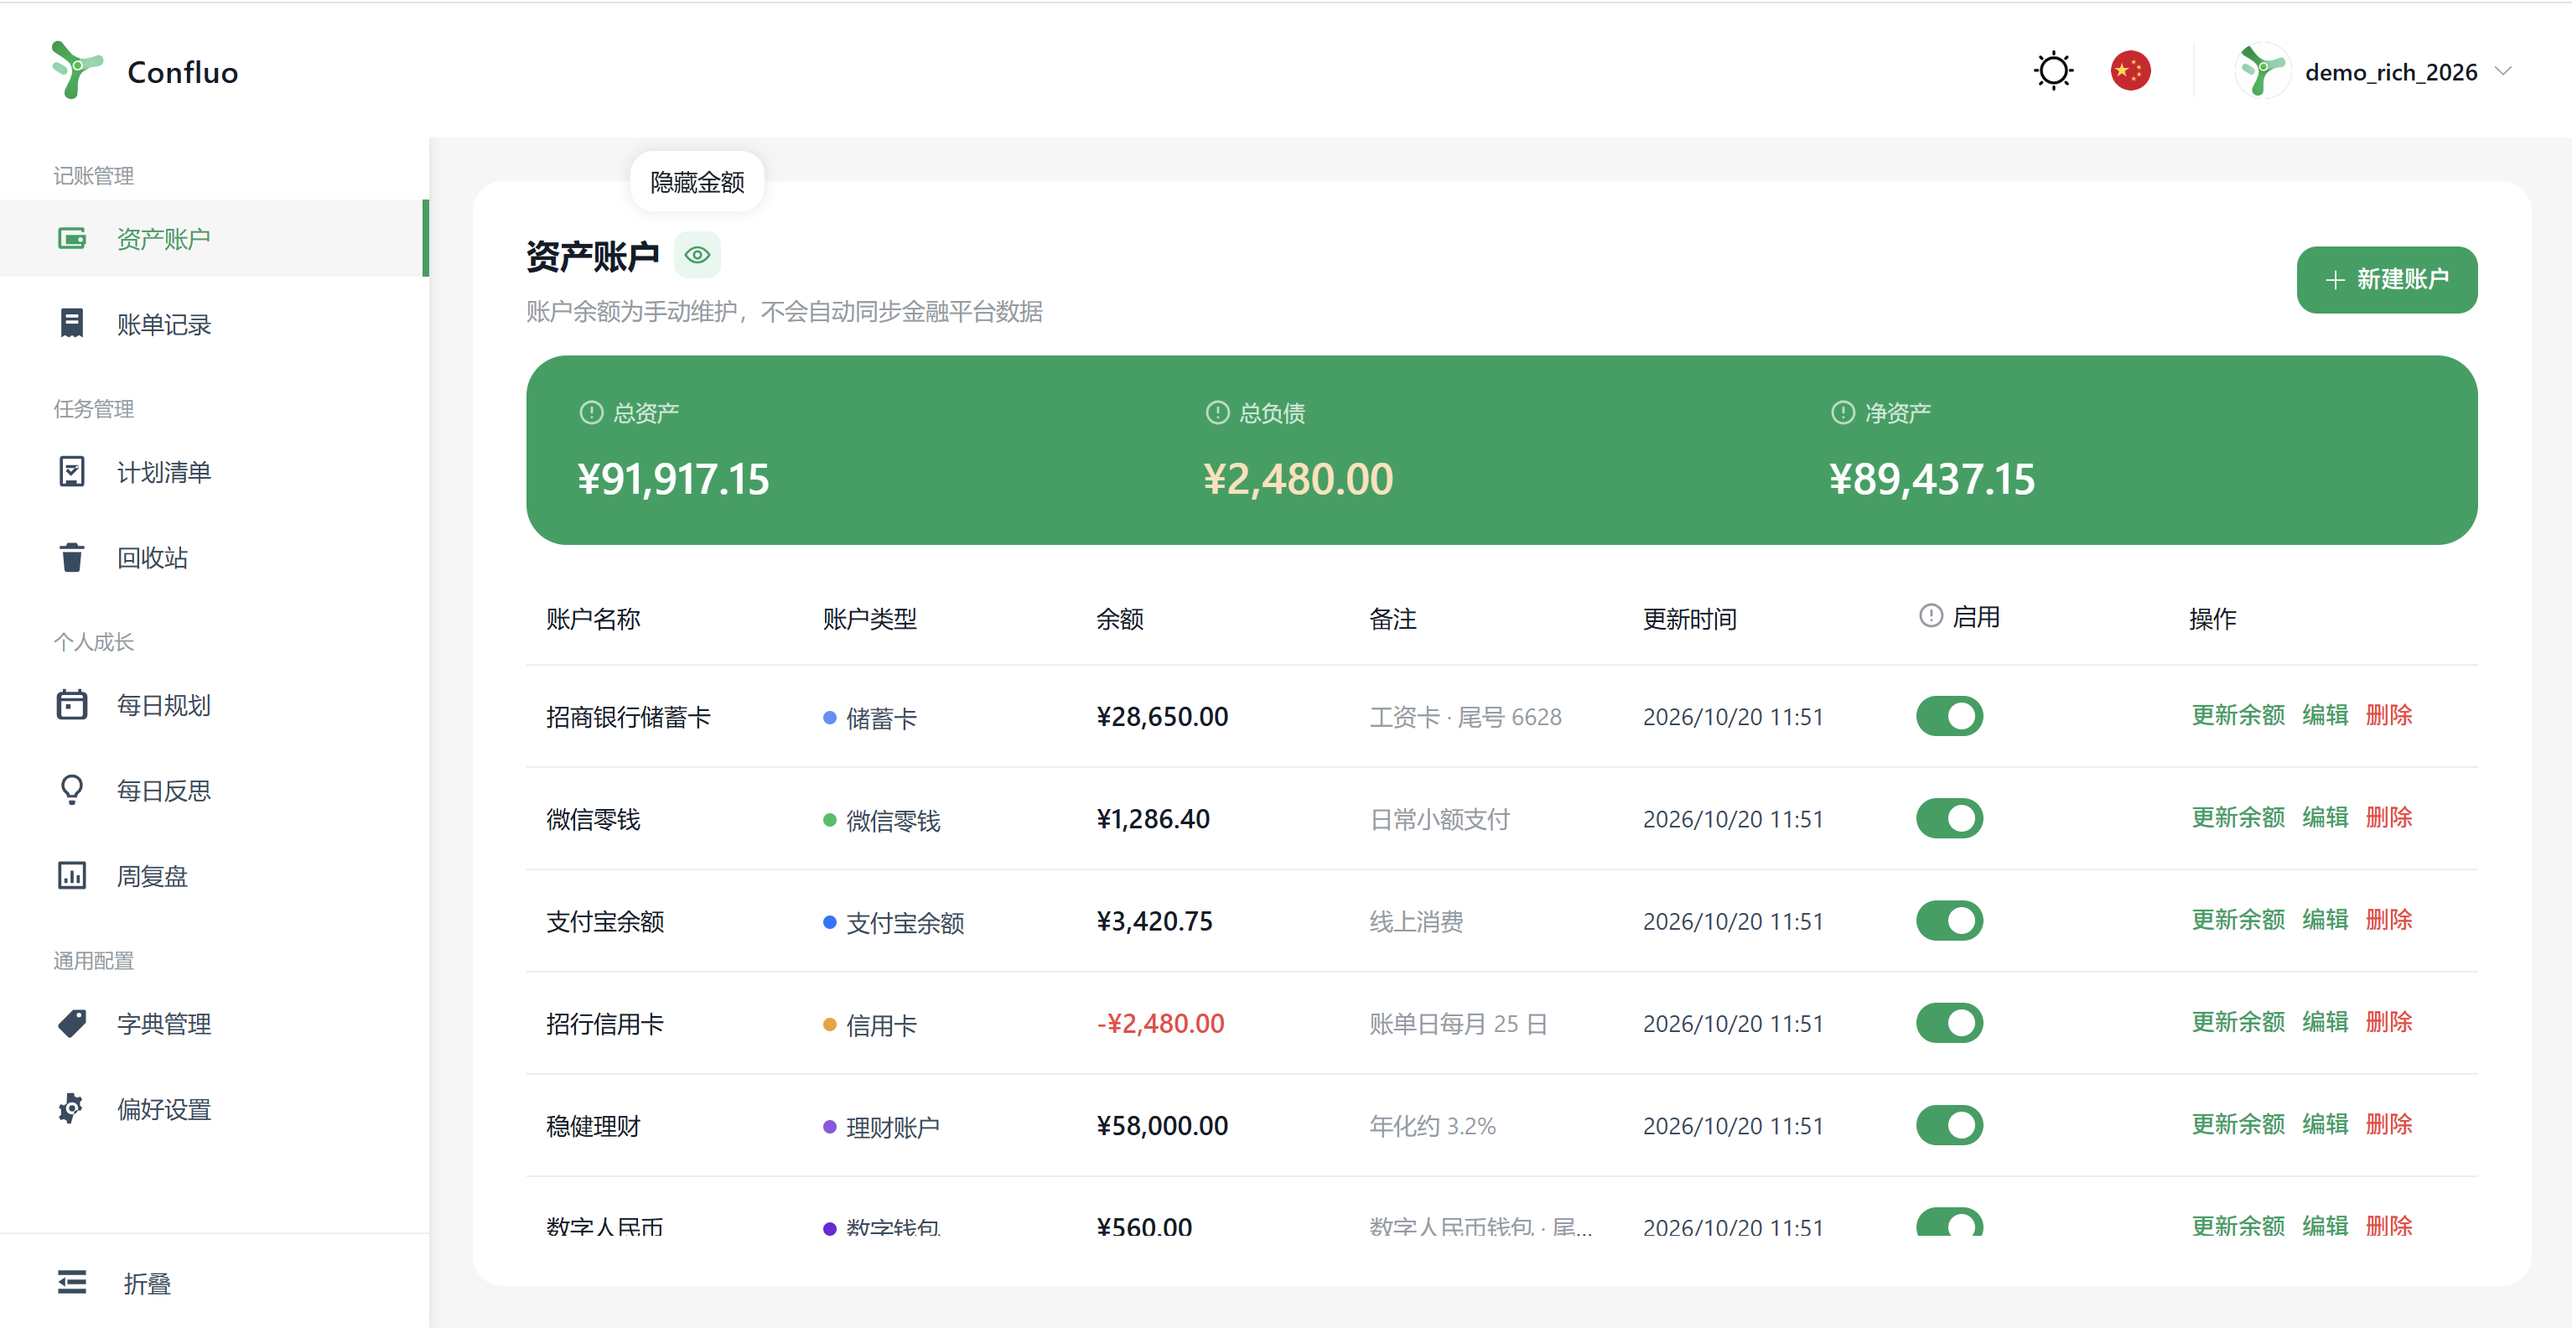
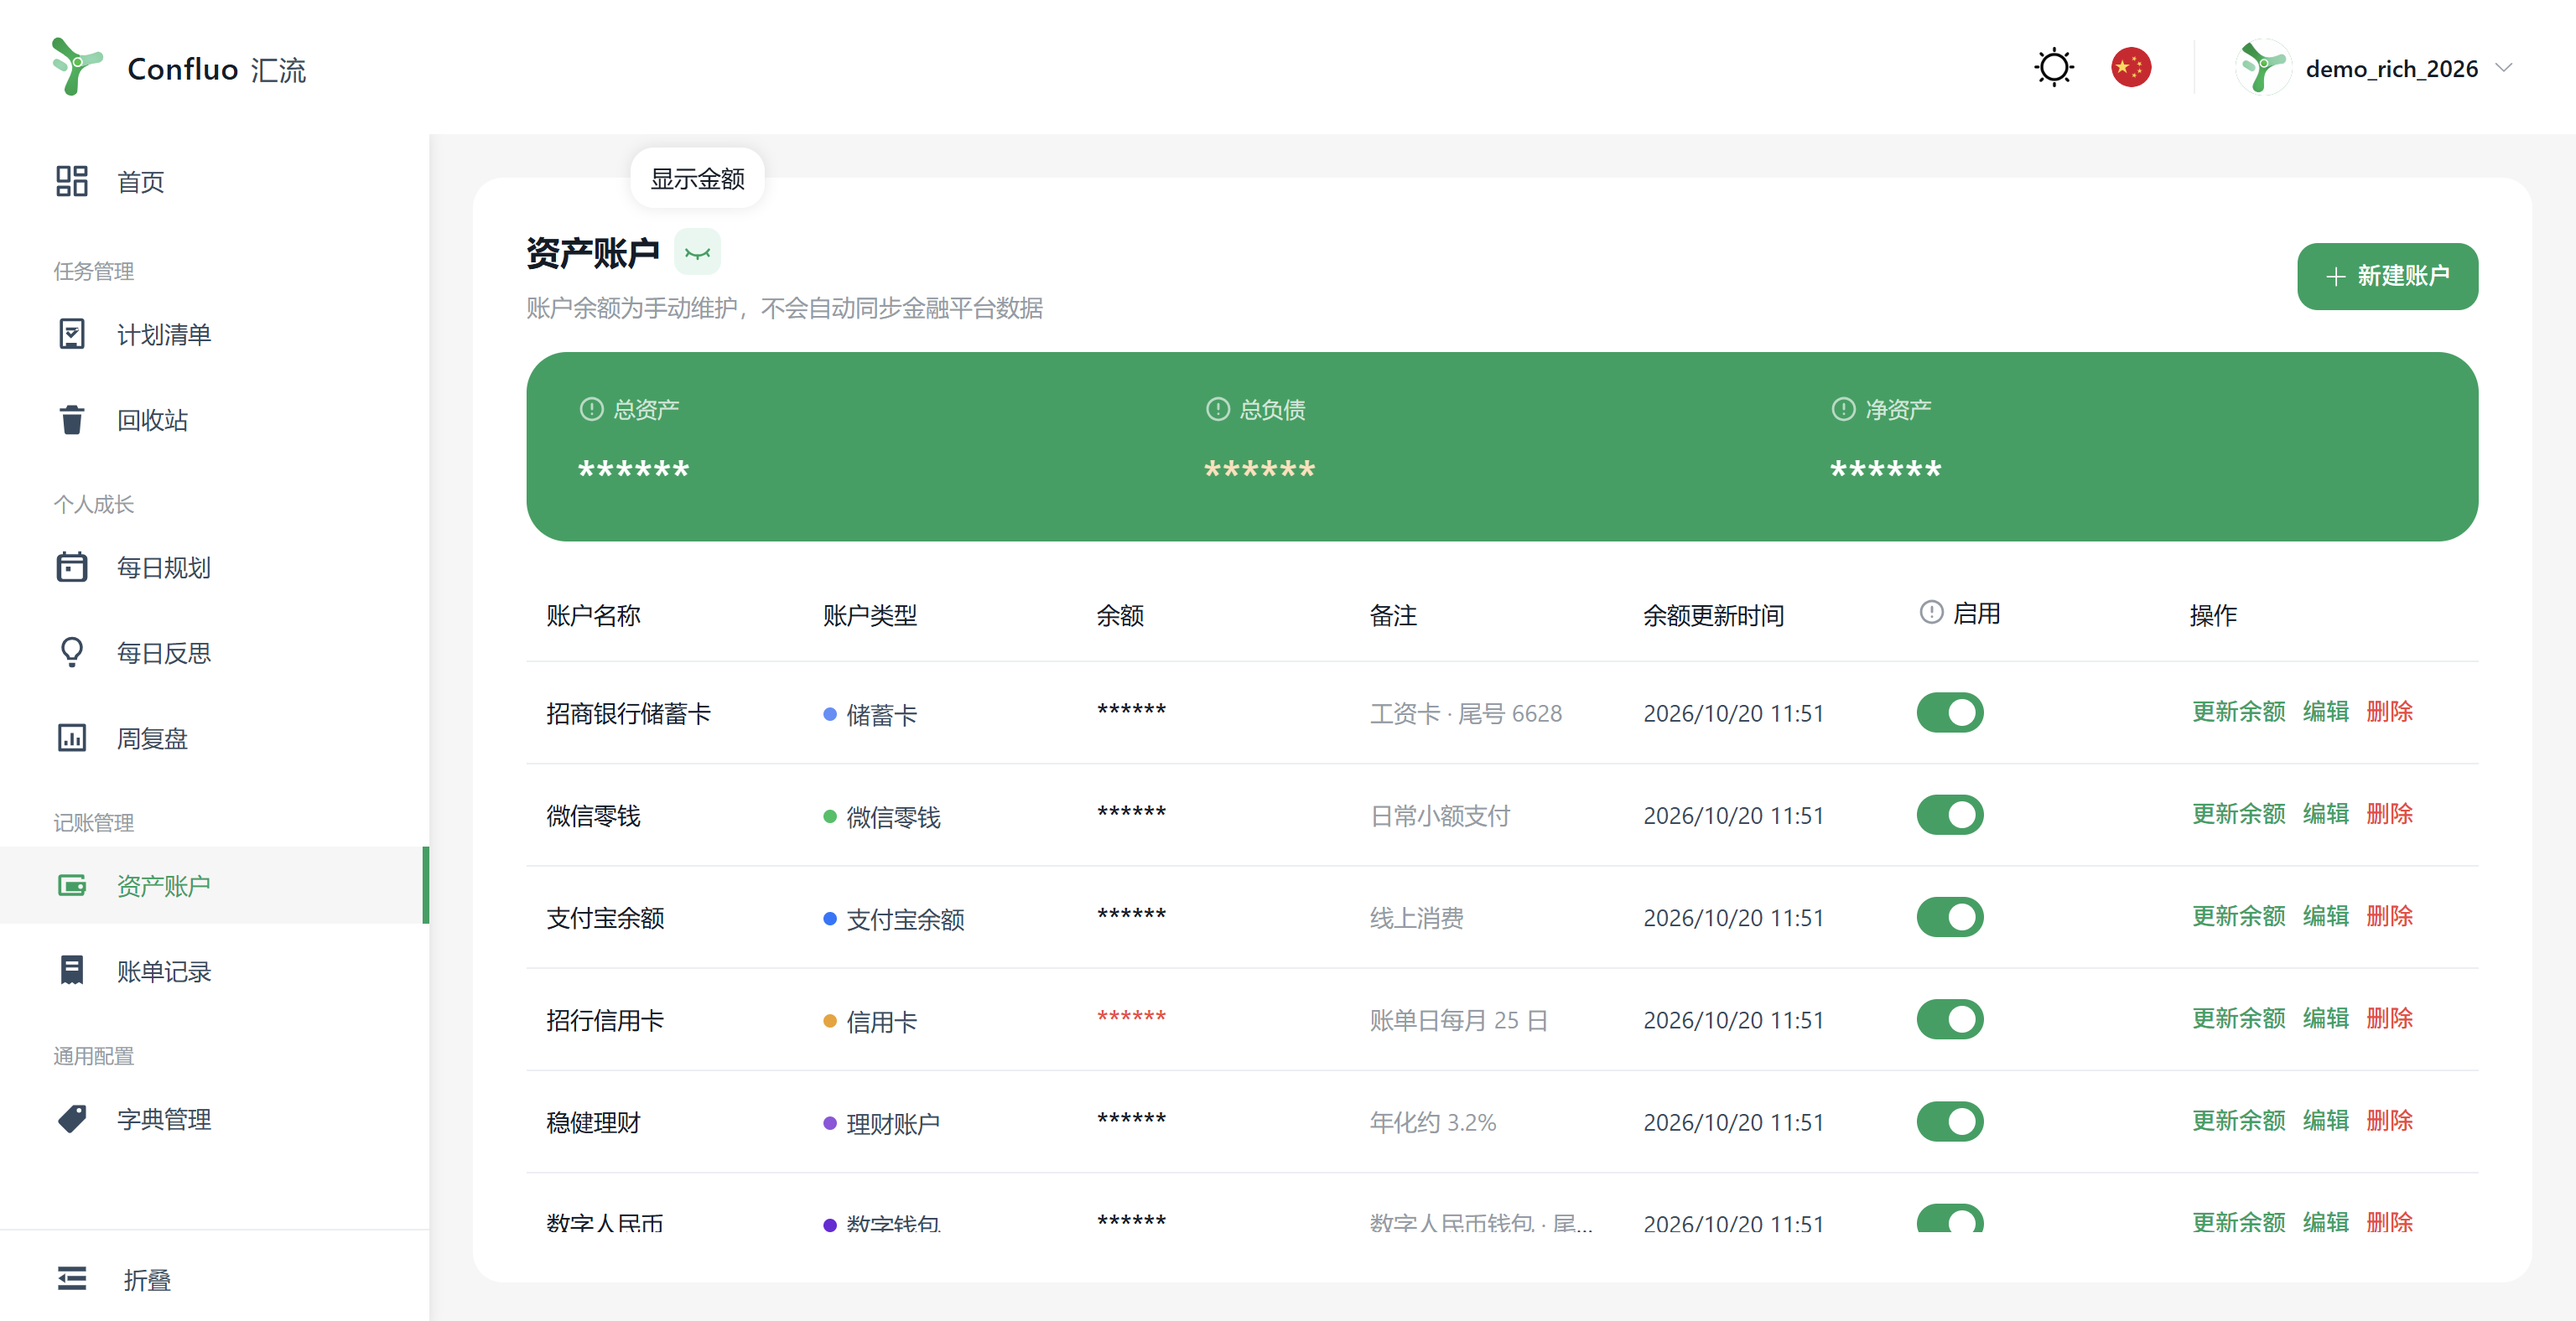
docs(marketing): refresh launch screenshots and articles

diff --git a/docs/marketing/xiaohongshu-note.md b/docs/marketing/xiaohongshu-note.md
@@ -1,118 +1,77 @@
-# 我把时间、复盘和钱，放回了同一条生活线
+# 我把计划、复盘和钱，放回了同一条生活线
 
-以前我的生活散在四个 App 里：
+以前，我的生活散在四个 App 里：
 
-清单里写着要做什么，日程里放着准备怎么做，日记里留着当时的感受，记账软件里躺着这个月的钱。
+清单记待办，日程排时间，日记写感受，另一个软件管钱。
 
-每一件都记了，但周末想认真回看时，还是得自己拼图。
+每一件都记了，周末还是得自己拼图。
 
-这是我最近一直在做的个人管理项目：**Confluo 汇流**。
+最近一直在做 **Confluo 汇流**，就是想把计划、行动、反思、复盘和账目，放回同一条能回看的生活线上。
 
-它不是另一个塞满功能的“万能效率软件”，而是想把计划、行动、反思、复盘和账目，放回同一条能回看的生活线上。
+官网已上线并完成 ICP 备案：**https://www.confluo.cn/**
 
-官网已经上线：**confluo.cn**
+![Confluo 首页](https://confluo-upload.oss-cn-shenzhen.aliyuncs.com/public/marketing/articles/confluo-launch-2026-11/01-home.png)
 
-## 打开首页，先看今天
+## 打开先看今天
 
-首页没有先摆出所有功能，而是先回答三个问题：
+首页没有先摆满功能，而是先回答：
 
-- 今天有哪些事情在等我？
-- 今天原本怎么安排，实际又怎么过？
-- 这一周和我的生活底座，正在发生什么变化？
+今天有哪些事在等我？<br>
+原本怎么安排，实际怎么过？<br>
+这一周，我积累了什么？
 
-今日任务、当日时间线、本周成长和净资产快照放在同一屏里。
-
-金额默认隐藏。这一点我很喜欢，地铁上、办公室里打开页面，不需要先担心数字被看见。
+今日任务、当日时间线、本周成长和净资产快照放在一起。金额默认隐藏，这一点让人很安心。
 
 ## 计划与实际，分开记
 
-每日规划分成四块：
+每日规划分四块：待办、计划完成、实际完成、随写备注。
 
-- 待办事项
-- 计划完成
-- 实际完成
-- 随写备注
+两边各自记录起止时间，用时会自动计算。
 
-计划与实际各自记录起止时间，用时会自动计算。
+计划 14:00–15:00 写完方案，实际 14:40 才开始，16:10 才结束。
 
-比如计划 14:00–15:00 写完方案，实际 14:40 才开始，16:10 才结束。
+记几天就会发现：问题常常不是不够自律，而是时间估算一开始就太乐观。
 
-记录几天以后就会发现：真正的问题常常不是“不够自律”，而是时间估算一开始就太乐观。
+![每日规划详情](https://confluo-upload.oss-cn-shenzhen.aliyuncs.com/public/marketing/articles/confluo-launch-2026-11/03-daily-plan-detail.png)
 
-![每日规划详情](./screenshots/03-daily-plan-detail.png)
+## 反思之后，再复盘
 
-详情还能导出成图片，做周报或留档都方便。
-
-## 每天留三条问题给反思
-
-不要求写长篇日记，每条只需要回答：
+每条反思只回答三个问题：
 
 **发生了什么 → 为什么 → 下次怎么做**
 
-一天可以写多条，也可以只写一条。少写没有惩罚，空一天也不会跳出红色提醒。
+少写没有惩罚，空一天也不会跳出红色提醒。
 
-反思还有年度视图。到了年底回看，会发现一些原以为已经过去的事，其实一直在重复影响自己。
+到了周末，规划天数、待办数量、计划与实际时长、反思天数会自动汇总。复盘只问：做得好的、卡住的、学到的、下周想改变的。
 
-## 周末不给自己打分
+![周复盘](https://confluo-upload.oss-cn-shenzhen.aliyuncs.com/public/marketing/articles/confluo-launch-2026-11/06-weekly-reviews.png)
 
-周复盘会自动汇总：
+数据用来观察趋势，不是拿来给自己打分。
 
-- 这周有几天做了规划
-- 每日计划里共有多少条待办
-- 计划时长与实际时长
-- 有几天写了反思
-- 每天分别留下了什么
+## 时间和钱，一起看
 
-![周复盘列表](./screenshots/06-weekly-reviews.png)
+资产账户可以自己分类，余额需要主动核对，不假装自动同步所有银行数据。
 
-复盘只问四件事：
+总资产、总负债、净资产集中展示；账单支持日、周、月三个独立视角，分类和标签也能自己维护。
 
-做得好的、卡住我的、这周的收获、下周想改变什么。
+![资产账户](https://confluo-upload.oss-cn-shenzhen.aliyuncs.com/public/marketing/articles/confluo-launch-2026-11/05-assets.png)
 
-写不下去可以先存草稿；完成后会冻结当时的统计快照，之后改每日记录，也不会悄悄改写已经完成的复盘。
+账面不是生活的全部，但看见钱和注意力一起流向哪里，会让人更踏实。
 
-有些周适合冲刺，有些周只需要恢复。数据是拿来观察的，不是拿来给自己判分的。
+## 细节决定能不能长期用
 
-## 时间和钱，放在一起看
+深色 / 浅色模式，绿色、蓝色、金色三套主题；换色需要主动保存；桌面和手机浏览器都做了适配，也支持中英文。
 
-资产账户可以自己分类：储蓄卡、信用卡、零钱、理财、现金……
+![偏好设置](https://confluo-upload.oss-cn-shenzhen.aliyuncs.com/public/marketing/articles/confluo-launch-2026-11/07-preferences.png)
 
-总资产、总负债、净资产集中展示；余额需要主动核对，不假装自动同步所有银行数据。
+一个人借助 AI 做产品，提高的应该只是实现速度。功能怎么组织、哪里该少一步、哪里该留白，还得由人反复判断。
 
-![资产账户](./screenshots/05-assets.png)
+我喜欢克制、清楚、有一点审美，也经得起长期使用的工具。“能用”不是完成。
 
-账单支持日、周、月三个独立视角，分类和标签也能按自己的方式维护。
-
-账面不是生活的全部，但看清楚钱和注意力一起流向哪里，确实会让人更踏实一点。
-
-## 不抢眼，但很在意的细节
-
-界面有深色 / 浅色模式，也有绿色、蓝色、金色三套主题。
-
-换配色需要主动保存，不会因为误触突然换掉整个界面；金额默认遮挡；桌面和手机浏览器都做了适配；中文、英文可以切换。
-
-![主题与偏好设置](./screenshots/07-preferences.png)
-
-一个人借助 AI 做产品，提高的应该只是实现速度。功能怎么组织、状态怎么反馈、哪里该少一步、哪里该留白，还是得由人一遍遍判断。
-
-我喜欢克制、清楚、有一点自己的审美，也经得起长期使用的工具。
-
-“能用”不是完成，“差不多”也不够。
-
-## 适合谁？
-
-- 工具很多，但信息总是割裂的人
-- 想看“计划 vs 实际”的人
-- 想开始周复盘，又怕被 KPI 催着跑的人
-- 有多个账户，希望同时看流水和资产的人
-- 在意分类、标签和记录结构的人
-
-官网：**confluo.cn**
+官网：**https://www.confluo.cn/**
 
 可以从今天的一条计划开始，也可以只写下一句此刻的感受。
 
-记录不是为了把生活活成表格，而是为了更早看见那些真正重要的变化。
+记录不是把生活活成表格，而是更早看见重要的变化。
 
-**Confluo 汇流：让计划、行动、反思与生活账目，在这里汇流。**
-
-#个人管理 #效率工具 #时间管理 #周复盘 #记账 #独立开发 #产品设计 #数字生活 #自我成长 #生活记录
+#个人管理 #时间管理 #周复盘 #记账 #独立开发 #产品设计 #数字生活 #自我成长
